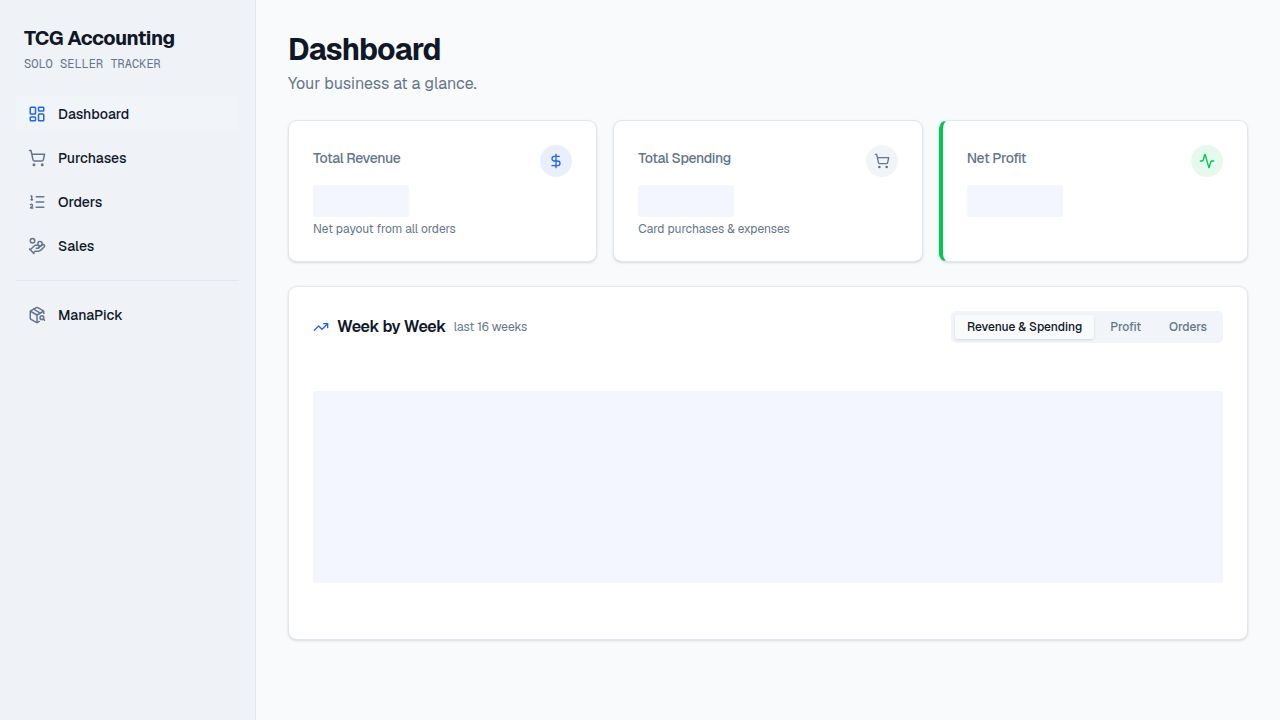
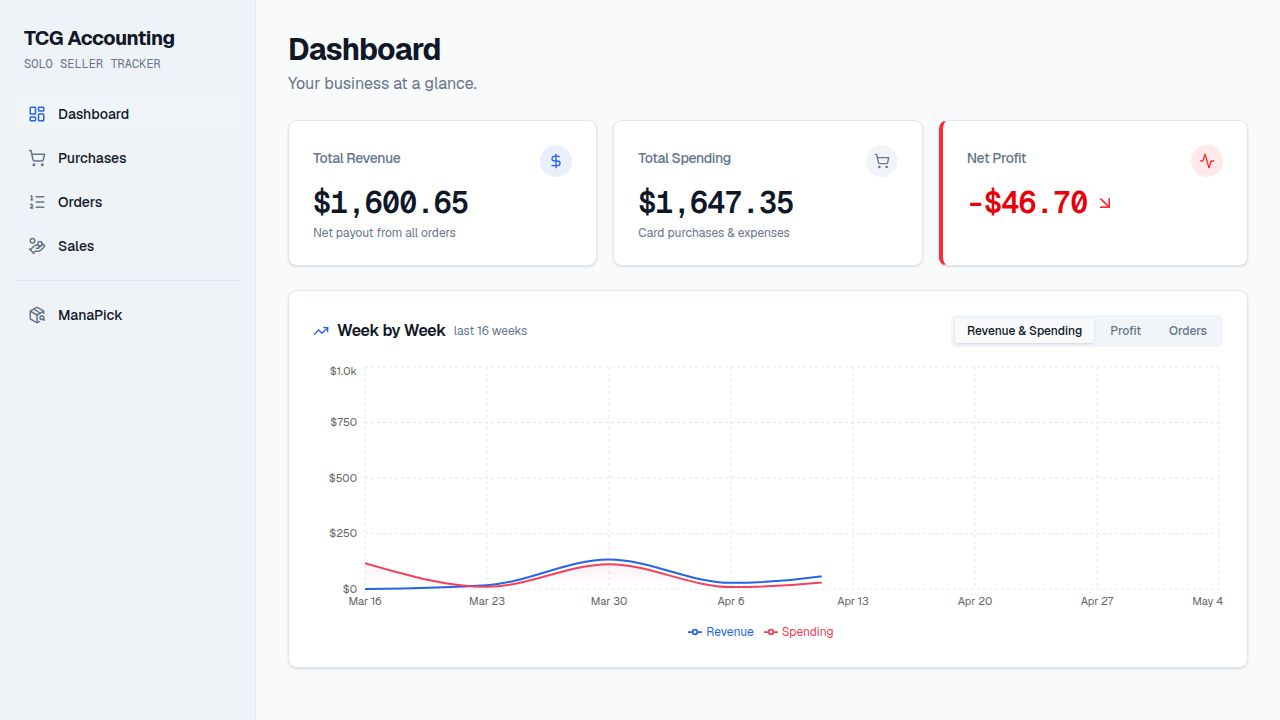
Allow uploading files in preview and improve CSV format error messages
Disable API authentication in development environments and enhance error handling for incorrect TCGPlayer CSV formats.

Replit-Commit-Author: Agent
Replit-Commit-Session-Id: 59e28e1d-7be8-4aeb-871e-8143dcf28437
Replit-Commit-Checkpoint-Type: full_checkpoint
Replit-Commit-Event-Id: f81df0b3-aa17-4fa6-898f-aeb14847af71
Replit-Commit-Screenshot-Url: https://storage.googleapis.com/screenshot-production-us-central1/631d9228-5f50-4ce1-b3a2-04663e27af3e/59e28e1d-7be8-4aeb-871e-8143dcf28437/HTTxHDH
Replit-Helium-Checkpoint-Created: true

diff --git a/artifacts/api-server/src/routes/tcgplayer.ts b/artifacts/api-server/src/routes/tcgplayer.ts
@@ -225,9 +225,22 @@ router.post("/tcgplayer/parse-pullsheet", async (req, res): Promise<void> => {
   }
 
   try {
+    // Detect if user accidentally uploaded an Order List instead of a Pull Sheet
+    const firstLine = csv.split(/\r?\n/)[0]?.toLowerCase() ?? "";
+    if (firstLine.includes("order #") || firstLine.includes("buyer name")) {
+      res.status(400).json({
+        error:
+          'This looks like a TCGPlayer Order List, not a Pull Sheet. In TCGPlayer, go to Orders → click "Pull Sheet" (or export a Pull Sheet from the Orders page) to get a CSV with individual card rows.',
+      });
+      return;
+    }
+
     const cards = parsePullSheetCSV(csv);
     if (cards.length === 0) {
-      res.status(400).json({ error: "No valid cards found in CSV. Make sure you're using the Pull Sheet format." });
+      res.status(400).json({
+        error:
+          'No card rows found. Upload the TCGPlayer Pull Sheet CSV (columns: Product Name, Set, SkuId, Order Quantity). The Order List or Packing Slip formats won\'t work here.',
+      });
       return;
     }
     req.log.info({ cards: cards.length }, "tcgplayer pull sheet parsed");

diff --git a/artifacts/api-server/src/routes/index.ts b/artifacts/api-server/src/routes/index.ts
@@ -21,13 +21,13 @@ router.use(ebayNotificationsRouter);
 // Health check — public
 router.use(healthRouter);
 
-// Require authentication for all remaining routes
+// Require authentication for all remaining routes (skipped in development)
 router.use((req: Request, res: Response, next: NextFunction) => {
-  if (!req.isAuthenticated()) {
-    res.status(401).json({ error: "Unauthorized" });
+  if (process.env["NODE_ENV"] !== "production" || req.isAuthenticated()) {
+    next();
     return;
   }
-  next();
+  res.status(401).json({ error: "Unauthorized" });
 });
 
 router.use(dashboardRouter);